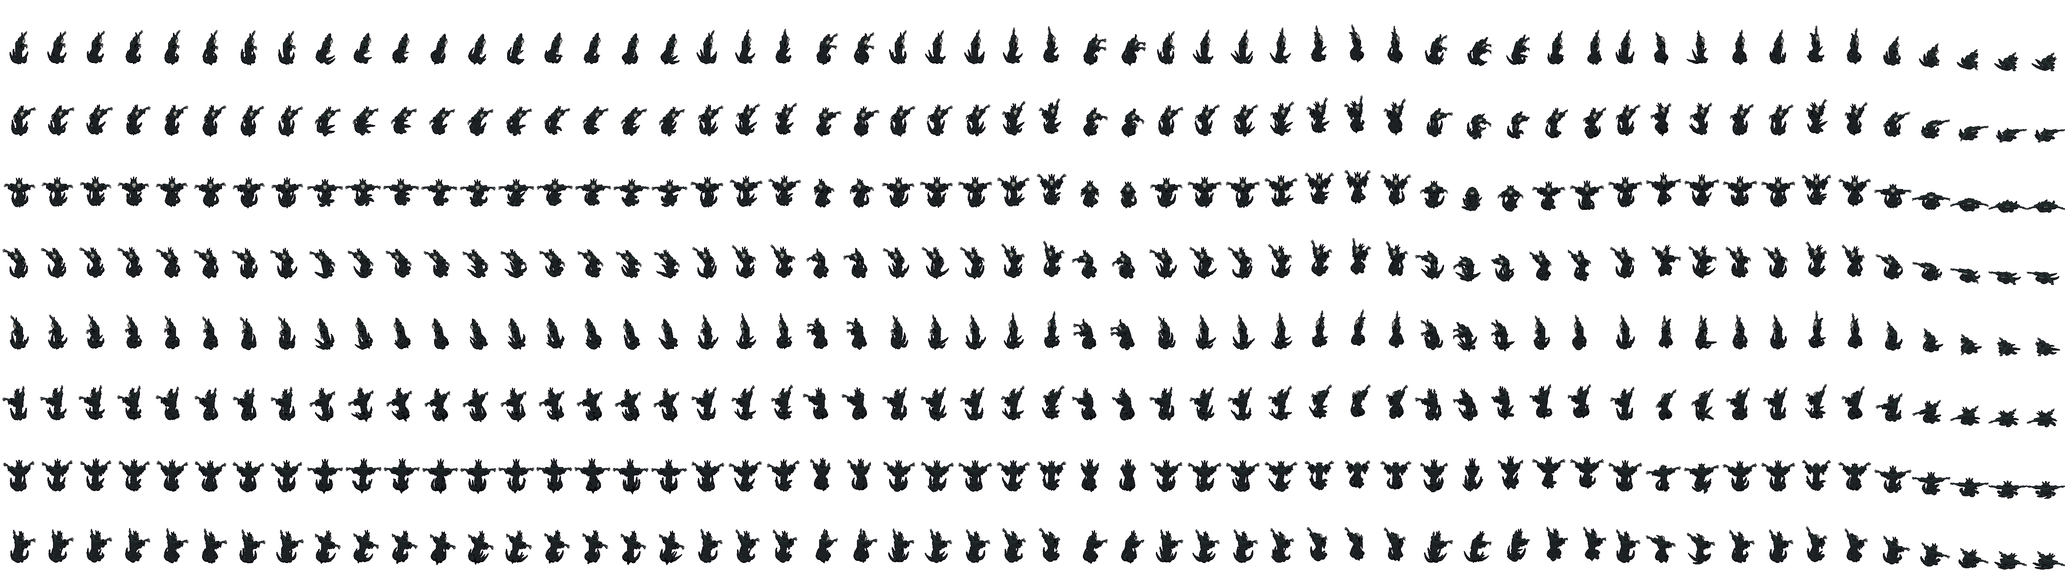
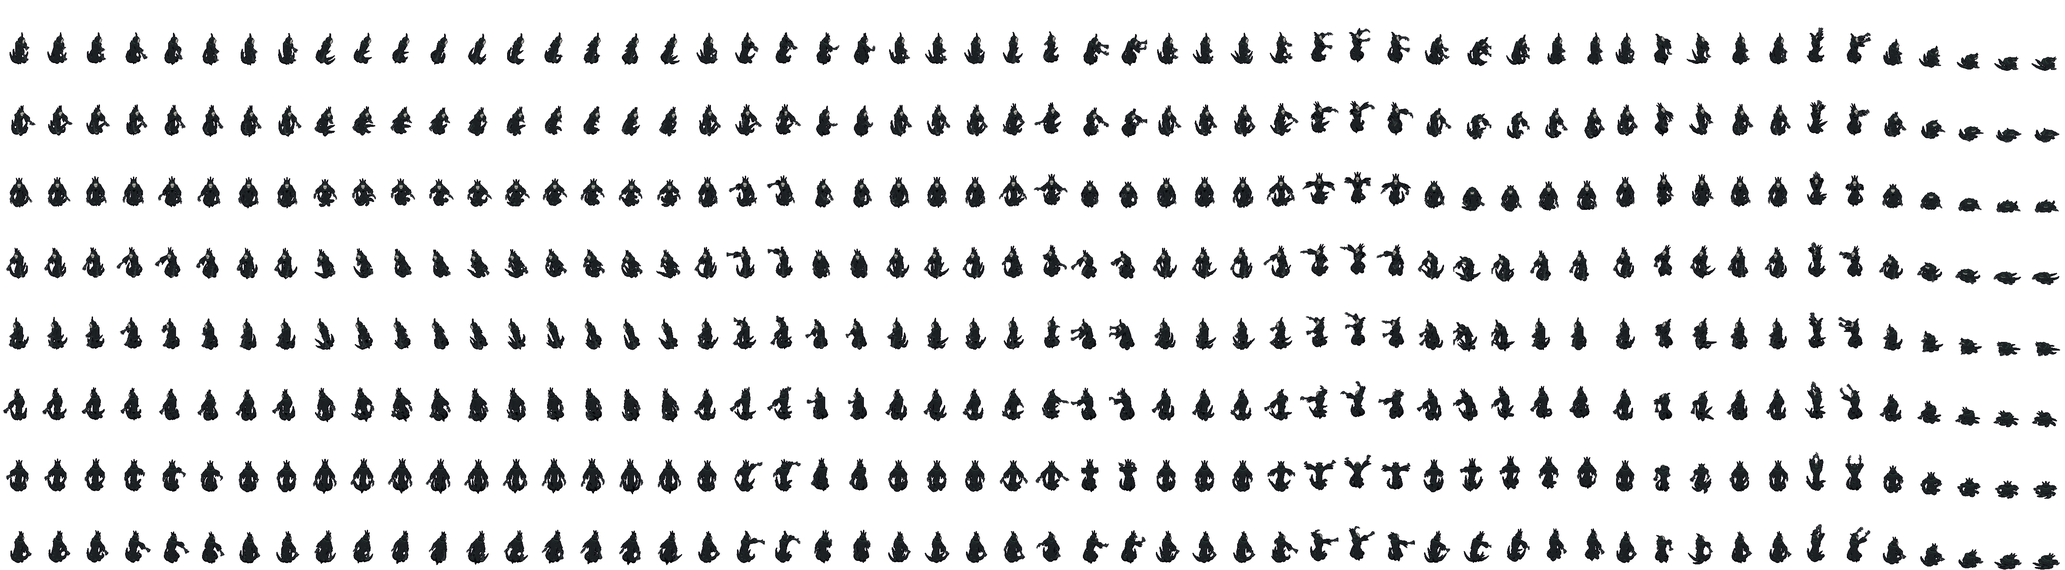
The wraith's arms, a man's: hanging at rest, joined at shoulder and elbow, clawed hands that curl; new clips
The owner: "wraith arms are always stuck out wide, they should move, and be more like human arm
movements" (proposal approved: "Yes go ahead, build the wraith arms").

- The rest pose: arms hanging from slack shoulders a little out from the body (from the game's
  camera arms at the sides vanish against the robe), elbows bent, long gaunt forearms bringing big
  clawed hands forward to the hips. The reference's spread is now the peak of the Heavy (and the
  Cast's lift), not the bind pose every clip nudged a few degrees.
- Joints: the sleeve's top blended into the chest and the forearm's root into the sleeve (skinned
  weights), so a raised arm stays joined; a claw bone at each hand's knuckles curls and splays the
  fingers; the sleeve a bell shoulder to elbow, its mouth dark, its hem in rags.
- Clips with overlap (shoulder, then elbow, then claws; the two arms never mirrored): Idle
  breathing, a hand rising and curling; Walk trailing; Attack a rake cocked over the head and down
  across the body; Attack2 a two-handed lunge and grab; Heavy the spread and the dive; Hit arms in,
  elbows up; Death a reach, then slack; Cast hands lifted out at the sides, trembling.
- Round A2: forearms longer, hands bigger (the reference's); the Cast's hands crossed before its
  face, now out at the sides.
- creatures-sheet.cjs --clips A,B [--frames N]: a row through those clips, N moments each.
[…]

diff --git a/tools/actor-lab/creatures.js b/tools/actor-lab/creatures.js
@@ -598,8 +598,18 @@ function wraith(o = {}) {
   const skullC = (p, n) => (n.y < -0.3 ? skullLo : skull);
   R.bone('root', null, V(0, 0.85, 0)); R.bone('spine', R.by.get('root'), V(0, 1.0, 0.0)); R.bone('chest', R.by.get('spine'), V(0, 1.2, 0.03));
   R.bone('neck', R.by.get('chest'), V(0, 1.32, 0.07)); R.bone('head', R.by.get('neck'), V(0, 1.4, 0.1)); R.bone('jaw', R.by.get('head'), V(0, 1.375, 0.15));
-  for (const s of [1, -1]) {   // (flung wide and a little up, as the reference's: the bind pose is the pose)
-    const u = R.bone(`armU${s}`, R.by.get('chest'), V(0.18 * s, 1.27, 0.04)), l = R.bone(`armL${s}`, u, V(0.42 * s, 1.35, 0.1)); R.bone(`hand${s}`, l, V(0.62 * s, 1.47, 0.15));
+  // (the owner, 2026-11-10: "wraith arms are always stuck out wide, they should move, and be more like human arm movements".
+  // The bind pose was the reference's spread, every clip a few degrees off it. Now a man's arms at rest: hanging from slack
+  // shoulders a little out from the body (from the game's camera arms at the sides vanish against the robe), the elbows
+  // bent, gaunt forearms bringing the claws forward to the hips, reaching; the reference's spread is the peak of its
+  // Heavy and its Cast. Each hand has a `claw` bone at the knuckles, so the fingers curl and splay.)
+  const ARM = {};
+  for (const s of [1, -1]) {
+    const Sh = V(0.2 * s, 1.27, 0.04), El = V(0.3 * s, 0.99, 0.12), Wr = V(0.35 * s, 0.7, 0.29);   // (round A2: longer, gaunt, the reference's)
+    const up = El.clone().sub(Sh).normalize(), fore = Wr.clone().sub(El).normalize(), hinge = up.clone().cross(fore).normalize();   // (the elbow's hinge)
+    const palm = V(-s, 0, 0.25).normalize(), spread = palm.clone().cross(fore).normalize(), Kn = Wr.clone().add(fore.clone().multiplyScalar(0.07));
+    const u = R.bone(`armU${s}`, R.by.get('chest'), Sh), l = R.bone(`armL${s}`, u, El), h = R.bone(`hand${s}`, l, Wr); R.bone(`claw${s}`, h, Kn);
+    ARM[s] = { Sh, El, Wr, Kn, up, fore, hinge, palm, spread };
   }
   // the column: the shroud below the waist twisting down to a point (three bones), and six tendrils curling up off it
   const colP = [V(0, 0.95, 0.0), V(0.03, 0.66, -0.02), V(-0.03, 0.4, 0.0), V(0.01, 0.15, 0.03)], colR = [0.13, 0.15, 0.11, 0.06];   // (a waist, then the shroud's fall)
@@ -649,35 +659,101 @@ function wraith(o = {}) {
   for (let i = -3; i <= 3; i++) R.part(limb(V(i * 0.012, 1.374, 0.238 - Math.abs(i) * 0.005), V(i * 0.012, 1.352, 0.24 - Math.abs(i) * 0.005), 0.006, 0.002, 3), 'head', claw);
   R.part(blob(V(0, 1.33, 0.205), [0.058, 0.024, 0.045], [8, 5]), 'jaw', skullC);
   for (let i = -2; i <= 2; i++) R.part(limb(V(i * 0.013, 1.34, 0.243 - Math.abs(i) * 0.005), V(i * 0.013, 1.36, 0.244 - Math.abs(i) * 0.005), 0.006, 0.002, 3), 'jaw', claw);
-  // the arms: the sleeve's drape hanging under each, gaunt forearms, hands with long splayed clawed fingers
+  // the arms: a bell sleeve from the shoulder to the elbow, its mouth dark inside and its hem in rags; gaunt forearms; big
+  // hands with long clawed fingers. The sleeve's top is shared with the chest and the forearm's root with the sleeve, so a
+  // raised arm stays joined at the shoulder and bends at the elbow (round A1: rigid pieces broke apart when they moved)
   for (const s of [1, -1]) {
-    { const d = V(0.26 * s, 0.08, 0.06).normalize();   // (a bell sleeve: round W3, a pipe; its mouth dark inside, round S4: shaded smooth its end read as a capped pipe)
-      R.part(limb(V(0.17 * s, 1.27, 0.04), V(0.43 * s, 1.35, 0.1), 0.07, 0.11, 7), `armU${s}`, (p, n) => (n.dot(d) > 0.7 ? voidC : robeC(p, n))); }
-    // the sleeve: a wide drape hanging under the arm to the elbow and past it, its edge in rags (round W1: a scarecrow's sleeve)
-    for (let k = 0; k < 6; k++) { const x = (0.2 + k * 0.05) * s, y = 1.27 + k * 0.016, len = 0.3 + 0.12 * hash3(k, s, 4, 2) - k * 0.015; R.part(limb(V(x, y, 0.06 + k * 0.01), V(x * 1.04, y - len, 0.03 + k * 0.012), 0.055, 0.004, 3), `armU${s}`, robeC); }
-    for (let k = 0; k < 3; k++) { const x = (0.45 + k * 0.05) * s, y = 1.36 + k * 0.025; R.part(limb(V(x, y, 0.1 + k * 0.01), V(x * 1.02, y - 0.16 - 0.05 * k, 0.09 + k * 0.012), 0.04, 0.003, 3), `armL${s}`, robeC); }
-    R.part(limb(V(0.42 * s, 1.35, 0.1), V(0.62 * s, 1.47, 0.15), 0.032, 0.024, 6), `armL${s}`, flesh);
-    R.part(blob(V(0.66 * s, 1.49, 0.16), [0.048, 0.032, 0.05], [6, 5]), `hand${s}`, flesh);
-    for (let f = 0; f < 5; f++) {
-      const a = (f - 2) * 0.32, d = V(Math.cos(a) * s, Math.sin(a) * 0.9 + 0.25, 0.25 + 0.15 * (f === 0 ? -1 : 0)).normalize();
-      const b = V(0.67 * s, 1.49, 0.16).add(d.clone().multiplyScalar(0.04)), m = b.clone().add(d.clone().multiplyScalar(0.085)), e = m.clone().add(d.clone().multiplyScalar(0.075)).add(V(0, -0.03, 0.015));
-      R.part(limb(b, m, 0.013, 0.01, 4), `hand${s}`, flesh); R.part(limb(m, e, 0.01, 0.001, 3), `hand${s}`, claw);
+    const A = ARM[s], U = `armU${s}`, Lb = `armL${s}`, H = `hand${s}`, Cl = `claw${s}`;
+    const shoulderW = R.skin((p) => { const k = Math.max(0, Math.min(1, p.distanceTo(A.Sh) / 0.1)); return k >= 1 ? [[U, 1]] : [[U, 0.45 + 0.55 * k], ['chest', 0.55 - 0.55 * k]]; });
+    const elbowW = R.skin((p) => { const k = Math.max(0, Math.min(1, p.distanceTo(A.El) / 0.06)); return k >= 1 ? [[Lb, 1]] : [[Lb, 0.5 + 0.5 * k], [U, 0.5 - 0.5 * k]]; });
+    R.part(blob(A.Sh.clone().add(V(0, 0.01, 0)), [0.075, 0.065, 0.075]), shoulderW, robeC);               // (the shoulder, rounded under the drape)
+    R.part(limb(A.Sh, A.El.clone().add(A.up.clone().multiplyScalar(0.03)), 0.065, 0.12, 9), shoulderW, (p, n) => (n.dot(A.up) > 0.7 ? voidC : robeC(p, n)));
+    for (let k = 0; k < 7; k++) {   // (the hem: rags hanging from the sleeve's mouth, longest at the back and under)
+      const a = (k / 7) * TAU + 0.4, r = 0.105, m = A.El.clone().add(A.up.clone().multiplyScalar(0.03)), side = V(s, 0, 0), fw = V(0, 0, 1);
+      const at = m.clone().add(side.clone().multiplyScalar(Math.cos(a) * r)).add(fw.clone().multiplyScalar(Math.sin(a) * r * 0.9));
+      const len = 0.1 + 0.09 * hash3(k, s, 6, 3) + (Math.sin(a) < 0 ? 0.06 : 0);
+      R.part(limb(at, at.clone().add(V(0.01 * s * Math.cos(a), -len, -0.02)), 0.032, 0.003, 3), U, robeC);
     }
+    R.part(limb(A.El.clone().add(A.up.clone().multiplyScalar(-0.02)), A.Wr, 0.034, 0.025, 7), elbowW, flesh);   // the forearm, gaunt
+    R.part(blob(A.El, [0.032, 0.03, 0.032], [6, 5]), elbowW, flesh);                                                // (the elbow's knob)
+    R.part(blob(A.Wr.clone().add(A.fore.clone().multiplyScalar(0.035)), [0.05, 0.055, 0.04], [7, 5]), H, flesh);   // the palm (round A2: the reference's big hands)
+    for (let f = 0; f < 4; f++) {   // (long, a little splayed, curled in toward the palm at their tips)
+      const ang = (f - 1.5) * 0.24, d = A.fore.clone().multiplyScalar(Math.cos(ang)).add(A.spread.clone().multiplyScalar(Math.sin(ang))).normalize();
+      const b = A.Kn.clone().add(A.spread.clone().multiplyScalar((f - 1.5) * 0.022)), len = 0.1 - Math.abs(f - 1.5) * 0.01;
+      const m = b.clone().add(d.clone().multiplyScalar(len)), d2 = d.clone().add(A.palm.clone().multiplyScalar(0.45)).normalize(), e = m.clone().add(d2.clone().multiplyScalar(len * 0.8));
+      const d3 = d2.clone().add(A.palm.clone().multiplyScalar(0.5)).normalize();
+      R.part(limb(b, m, 0.015, 0.012, 5), Cl, flesh); R.part(blob(m, [0.013, 0.013, 0.013], [5, 4]), Cl, flesh);
+      R.part(limb(m, e, 0.012, 0.009, 5), Cl, flesh); R.part(limb(e, e.clone().add(d3.multiplyScalar(0.065)), 0.009, 0.001, 4), Cl, claw);
+    }
+    { const b = A.Wr.clone().add(A.fore.clone().multiplyScalar(0.025)).add(A.palm.clone().multiplyScalar(0.025)).add(A.spread.clone().multiplyScalar(-0.03)), d = A.fore.clone().multiplyScalar(0.5).add(A.palm.clone().multiplyScalar(0.55)).add(A.spread.clone().multiplyScalar(-0.45)).normalize(), e = b.clone().add(d.clone().multiplyScalar(0.07));
+      R.part(limb(b, e, 0.012, 0.009, 5), H, flesh); R.part(limb(e, e.clone().add(d.add(A.palm.clone().multiplyScalar(0.4)).normalize().multiplyScalar(0.04)), 0.008, 0.001, 4), H, claw); }   // the thumb
   }
   const root3 = R.mesh(o.glow || '#5ff0a0', 1.3);
   const writhe = (t, a = 1, trail = 0) => ({
     ...Object.fromEntries([0, 1, 2].map((i) => [`shroud${i}`, qe(trail * (0.12 + 0.08 * i) + 0.05 * a * S(t - i * 0.2), 0.15 * a * S(t * 0.5 - i * 0.25), 0.05 * a * C(t - i * 0.2))])),
     ...Object.fromEntries(tend.flatMap((n, i) => n.map((b, k) => [b, qe(trail * 0.3 + 0.16 * a * S(t + i / T + k * 0.15), 0.1 * a * C(t * 0.5 + i / T), 0.14 * a * S(t * 1.3 + i / T - k * 0.2))]))) });
-  const armQ = (s, fwd, down, twist = 0) => qe(twist, -s * fwd, -s * down);   // (forward toward the face, down toward the floor)
+  // an arm's pose, as a man's: `fwd` raises it forward (up over the head at about 2.6), `out` swings it out to the side
+  // (the reference's spread at about 1.6; under 0 across the body), `bend` flexes the elbow (under 0 straightens it),
+  // `curl` closes the claws (under 0 splays them), `wrist` cocks the hand; `twist` turns the arm in its socket
+  const X = V(1, 0, 0), Z = V(0, 0, 1);
+  const arm = (s, { fwd = 0, out = 0, bend = 0, curl = 0, wrist = 0, twist = 0 } = {}) => {
+    const A = ARM[s];
+    return { [`armU${s}`]: qa(UP, -twist * s).multiply(qa(Z, out * s)).multiply(qa(X, -fwd)), [`armL${s}`]: qa(A.hinge, -bend), [`hand${s}`]: qa(A.hinge, -wrist), [`claw${s}`]: qa(A.spread, curl * s) };
+  };
+  const arms = (l, r) => ({ ...arm(1, l), ...arm(-1, r) });   // (its left, its right: the right is −x, facing +z)
+  const lag = (f, t, d) => f(t - d);                          // (overlap: the elbow a beat after the shoulder, the claws after that)
   const clips = [
-    clip(R, 'Idle', 3.0, (t) => ({ q: { ...writhe(t), armU1: armQ(1, 0.15 + 0.08 * S(t), 0.1 * S(t + 0.2)), 'armU-1': armQ(-1, 0.15 + 0.08 * S(t + 0.4), 0.1 * S(t + 0.6)), armL1: armQ(1, 0.15, 0.05 * S(t)), 'armL-1': armQ(-1, 0.15, 0.05 * S(t + 0.3)), head: qe(0.08 * S(t + 0.2), 0.15 * S(t * 0.5), 0.05 * S(t)), jaw: qe(0.3 + 0.12 * Math.max(0, S(t * 2)), 0, 0), spine: qe(0.06 + 0.03 * S(t), 0, 0) }, p: { root: V(0, 0.04 * S(t), 0) } })),
-    clip(R, 'Walk', 1.2, (t) => ({ q: { ...writhe(t * 2, 1.3, 0.45), root: qe(0.2, 0, 0.05 * S(t)), armU1: armQ(1, -0.25, 0.35 + 0.08 * S(t)), 'armU-1': armQ(-1, -0.25, 0.35 + 0.08 * S(t + 0.5)), armL1: armQ(1, 0.2, 0.1), 'armL-1': armQ(-1, 0.2, 0.1), jaw: qe(0.3, 0, 0) }, p: { root: V(0, 0.03 * S(t * 2), 0) } })),
-    clip(R, 'Attack', 0.7, (t) => { const w = bell(0, 0.3, 0.45, t), k = bell(0.38, 0.52, 0.9, t); return { q: { ...writhe(t, 1.5, 0.2 * k), chest: qe(0.15 * k, 0.4 * w - 0.5 * k, 0), 'armU-1': armQ(-1, -0.6 * w + 1.4 * k, -0.3 * w + 0.3 * k), 'armL-1': armQ(-1, 0.6 * k, 0.2 * k), armU1: armQ(1, 0.2, 0), jaw: qe(0.3 + 0.4 * k, 0, 0), head: qe(0.15 * k, -0.25 * k, 0) }, p: { root: V(0, 0.04 * w, 0.12 * k) } }; }),
-    clip(R, 'Attack2', 0.75, (t) => { const w = bell(0, 0.35, 0.5, t), k = bell(0.42, 0.56, 0.92, t); return { q: { ...writhe(t, 1.5, 0.3 * k), armU1: armQ(1, -0.4 * w + 1.3 * k, -0.4 * w + 0.4 * k), 'armU-1': armQ(-1, -0.4 * w + 1.3 * k, -0.4 * w + 0.4 * k), armL1: armQ(1, 0.5 * k, 0), 'armL-1': armQ(-1, 0.5 * k, 0), spine: qe(-0.2 * w + 0.4 * k, 0, 0), jaw: qe(0.3 + 0.5 * w, 0, 0) }, p: { root: V(0, 0.08 * w - 0.04 * k, 0.1 * k) } }; }),
-    clip(R, 'Heavy', 1.1, (t) => { const r = bell(0, 0.35, 0.55, t), d = bell(0.5, 0.62, 0.95, t); return { q: { ...writhe(t * 1.5, 2, 0.6 * d), armU1: armQ(1, -0.5 * r + 1.2 * d, -0.6 * r + 0.3 * d), 'armU-1': armQ(-1, -0.5 * r + 1.2 * d, -0.6 * r + 0.3 * d), spine: qe(-0.35 * r + 0.5 * d, 0, 0), head: qe(-0.5 * r + 0.3 * d, 0, 0), jaw: qe(0.3 + 0.6 * r, 0, 0) }, p: { root: V(0, 0.18 * r - 0.08 * d, 0.38 * ease(0.5, 0.8, t)) } }; }),   // (it rises, spreads wider and shrieks, then dives)
-    clip(R, 'Hit', 0.45, (t) => { const k = bell(0, 0.2, 1, t); return { q: { ...writhe(t * 2, 1 + 2 * k, -0.3 * k), armU1: armQ(1, -0.3 * k, 0.2 * k), 'armU-1': armQ(-1, -0.3 * k, 0.2 * k), spine: qe(-0.3 * k, 0.2 * k, 0), head: qe(-0.35 * k, -0.2 * k, 0), jaw: qe(0.3 + 0.3 * k, 0, 0) }, p: { root: V(0, 0.03 * k, -0.08 * k) } }; }),
-    clip(R, 'Death', 1.6, (t) => { const r = bell(0, 0.18, 0.4, t), k = ease(0.2, 0.9, t), f = 1 - 0.72 * k; return { q: { ...writhe(t * 2, 2 * r + 0.3, -0.5 * k), spine: qe(0.15 * k - 0.3 * r, 0, 0), head: qe(-0.5 * r + 0.5 * k, 0, 0), jaw: qe(0.3 + 0.6 * r, 0, 0), armU1: armQ(1, 0.2 * k, -0.4 * r + 0.9 * k), 'armU-1': armQ(-1, 0.2 * k, -0.4 * r + 0.9 * k) }, p: { root: V(0, 0.1 * r - 0.74 * k, 0) }, s: { root: V(1 + 0.3 * k, f, 1 + 0.3 * k) } }; }),   // (a last shriek, then the shroud empties and settles, a heap of rags)
-    clip(R, 'Cast', 1.0, (t) => { const k = bell(0.05, 0.4, 0.9, t); return { q: { ...writhe(t * 1.5, 1.5, -0.2 * k), armU1: armQ(1, 0.3 * k, -0.7 * k), 'armU-1': armQ(-1, 0.3 * k, -0.7 * k), spine: qe(-0.25 * k, 0, 0), head: qe(-0.45 * k, 0, 0), jaw: qe(0.3 + 0.5 * k, 0, 0) }, p: { root: V(0, 0.1 * k, 0) } }; }),   // (arms raised, head back, jaw wide: the drain)
+    // breathing in the shoulders; its right hand slowly rising to the chest, the claws curling, the left a beat behind it
+    clip(R, 'Idle', 3.0, (t) => {
+      const rise = (u) => bell(0.25, 0.48, 0.78, ((u % 1) + 1) % 1), b = 0.06 * S(t);
+      return { q: { ...writhe(t), ...arms(
+        { fwd: 0.06 + b + 0.35 * lag(rise, t, 0.5), out: 0.05, bend: 0.1 + 0.45 * lag(rise, t, 0.56), curl: 0.15 + 0.5 * lag(rise, t, 0.62) },
+        { fwd: 0.06 + b + 0.75 * rise(t), out: 0.05 + 0.1 * rise(t), bend: 0.1 + 1.0 * lag(rise, t, 0.05), curl: 0.15 + 0.85 * lag(rise, t, 0.12) - 0.4 * lag(rise, t, 0.35) * 0, wrist: 0.25 * lag(rise, t, 0.08) }),
+        head: qe(0.08 * S(t + 0.2), 0.15 * S(t * 0.5), 0.05 * S(t)), jaw: qe(0.3 + 0.12 * Math.max(0, S(t * 2)), 0, 0), spine: qe(0.06 + 0.03 * S(t), 0, 0) }, p: { root: V(0, 0.04 * S(t), 0) } };
+    }),
+    // drifting: the arms trailing back with it, swinging a little against each other, the forearms lagging
+    clip(R, 'Walk', 1.2, (t) => ({ q: { ...writhe(t * 2, 1.3, 0.45), root: qe(0.2, 0, 0.05 * S(t)), ...arms(
+      { fwd: -0.4 + 0.18 * S(t), out: 0.12, bend: 0.3 + 0.12 * S(t - 0.1), curl: 0.3 + 0.1 * S(t - 0.2) },
+      { fwd: -0.4 + 0.18 * S(t + 0.5), out: 0.12, bend: 0.3 + 0.12 * S(t + 0.4), curl: 0.3 + 0.1 * S(t + 0.3) }), jaw: qe(0.3, 0, 0) }, p: { root: V(0, 0.03 * S(t * 2), 0) } })),
+    // a rake with the right claw: the arm cocked up behind the head, the body wound back; then raked down across it, the
+    // elbow snapping straight, the claws closing after it and the follow-through past the left hip
+    clip(R, 'Attack', 0.7, (t) => {
+      const w = bell(0, 0.3, 0.45, t), k = bell(0.38, 0.52, 0.9, t), we = bell(0, 0.33, 0.48, t), ke = bell(0.4, 0.55, 0.9, t), c = bell(0.46, 0.6, 0.95, t);
+      return { q: { ...writhe(t, 1.5, 0.2 * k), chest: qe(0.15 * k, -0.45 * w + 0.5 * k, 0), ...arms(
+        { fwd: 0.1 + 0.3 * w - 0.25 * k, out: 0.2 * w, bend: 0.25 + 0.4 * we, curl: 0.2 },
+        { fwd: 0.05 + 2.5 * w + 0.6 * k, out: 0.45 * w - 0.55 * k, bend: 0.1 + 1.3 * we - 0.45 * ke, curl: -0.45 * w + 1.1 * c, wrist: 0.5 * we - 0.5 * ke }),
+        jaw: qe(0.3 + 0.4 * k, 0, 0), head: qe(0.15 * k, 0.25 * k, 0) }, p: { root: V(0, 0.04 * w, 0.12 * k) } };
+    }),
+    // a two-handed lunge: both arms drawn back, then thrown forward at head height, the claws open, and shut on it
+    clip(R, 'Attack2', 0.75, (t) => {
+      const w = bell(0, 0.35, 0.5, t), k = bell(0.42, 0.56, 0.92, t), ke = bell(0.46, 0.6, 0.92, t), g = bell(0.52, 0.64, 0.96, t);
+      const one = (o) => ({ fwd: -0.45 * w + 1.55 * k, out: 0.3 * w - 0.2 * k + o, bend: 0.2 + 0.8 * w - 0.55 * ke, curl: 0.2 - 0.6 * w - 0.2 * k + 1.3 * g });
+      return { q: { ...writhe(t, 1.5, 0.3 * k), ...arms(one(0), one(0.04)), spine: qe(-0.2 * w + 0.4 * k, 0, 0), jaw: qe(0.3 + 0.5 * w, 0, 0) }, p: { root: V(0, 0.08 * w - 0.04 * k, 0.1 * k) } };
+    }),
+    // it rises and flings its arms wide and up (the reference's spread), shrieking; then dives, both sweeping forward and down
+    clip(R, 'Heavy', 1.1, (t) => {
+      const r = bell(0, 0.35, 0.55, t), d = bell(0.5, 0.62, 0.95, t), re = bell(0, 0.4, 0.6, t);
+      const one = (o) => ({ fwd: 0.45 * r + 1.3 * d, out: 1.65 * r + o - 0.1 * d, bend: 0.2 - 0.55 * re + 0.15 * d, curl: 0.2 - 0.8 * re + 1.0 * d, wrist: -0.3 * re });
+      return { q: { ...writhe(t * 1.5, 2, 0.6 * d), ...arms(one(0), one(0.06)), spine: qe(-0.35 * r + 0.5 * d, 0, 0), head: qe(-0.5 * r + 0.3 * d, 0, 0), jaw: qe(0.3 + 0.6 * r, 0, 0) }, p: { root: V(0, 0.18 * r - 0.08 * d, 0.38 * ease(0.5, 0.8, t)) } };
+    }),
+    // struck: the arms snap in to the chest, elbows up, the head thrown back
+    clip(R, 'Hit', 0.45, (t) => {
+      const k = bell(0, 0.2, 1, t), ke = bell(0, 0.26, 1, t);
+      const one = { fwd: 0.85 * k, out: -0.45 * k, bend: 0.1 + 1.5 * ke, curl: 0.2 + 0.8 * ke };
+      return { q: { ...writhe(t * 2, 1 + 2 * k, -0.3 * k), ...arms(one, one), spine: qe(-0.3 * k, 0.2 * k, 0), head: qe(-0.35 * k, -0.2 * k, 0), jaw: qe(0.3 + 0.3 * k, 0, 0) }, p: { root: V(0, 0.03 * k, -0.08 * k) } };
+    }),
+    // a last reach upward, a shriek; then the arms go slack and fold in as the shroud empties into a heap
+    clip(R, 'Death', 1.6, (t) => {
+      const r = bell(0, 0.18, 0.42, t), k = ease(0.2, 0.9, t), f = 1 - 0.72 * k;
+      const one = (o) => ({ fwd: 2.3 * r + 0.35 * k, out: 0.4 * r - 0.3 * k + o, bend: 0.1 - 0.35 * r + 0.6 * k, curl: -0.5 * r + 0.9 * k });
+      return { q: { ...writhe(t * 2, 2 * r + 0.3, -0.5 * k), ...arms(one(0), one(0.1)), spine: qe(0.15 * k - 0.3 * r, 0, 0), head: qe(-0.5 * r + 0.5 * k, 0, 0), jaw: qe(0.3 + 0.6 * r, 0, 0) }, p: { root: V(0, 0.1 * r - 0.74 * k, 0) }, s: { root: V(1 + 0.3 * k, f, 1 + 0.3 * k) } };
+    }),
+    // the drain: arms lifted wide and forward, palms to its prey, the fingers splayed and trembling, the head back
+    clip(R, 'Cast', 1.0, (t) => {
+      const k = bell(0.05, 0.4, 0.9, t), ke = bell(0.1, 0.45, 0.92, t), tr = 0.06 * S(t * 11) * k;
+      const one = (o) => ({ fwd: 0.85 * k + tr, out: 1.3 * k + o, bend: 0.15 - 0.4 * ke, curl: 0.15 - 0.75 * ke + tr * 2, wrist: -0.45 * ke });   // (round A2: narrower, the hands crossed before its face)
+      return { q: { ...writhe(t * 1.5, 1.5, -0.2 * k), ...arms(one(0), one(0.05)), spine: qe(-0.25 * k, 0, 0), head: qe(-0.45 * k, 0, 0), jaw: qe(0.3 + 0.5 * k, 0, 0) }, p: { root: V(0, 0.1 * k, 0) } };
+    }),
   ];
   return { root: root3, clips };
 }

diff --git a/docs/creatures-proposal.md b/docs/creatures-proposal.md
@@ -25,7 +25,7 @@ fire beetle, the goblin, the graveyard wraith (1.5×), the stone golem (2×), th
   |---|---|---|---|
   | Red fire beetle | the hexapod (tripod gait) | 5,880 · 28 | a lacquered crimson dome going black at the tips, fire-glands over the eyes and at the tail; the cases fly wide on a glowing belly to spit; dies flipped, legs kicking |
   | Goblin | the small biped | 10,884 · 18 | after the owner's reference (below): a big bald head a third of its height, bat ears ringed in brass, a scowl, red eyes sunk deep, a wide grin of teeth; a red scarf on a leather mantle, a belt of pouches, a red loincloth, leather wraps; big clawed hands, no weapon |
-  | Graveyard wraith | the floating shroud | 7,800 · 33 | 1.5 men; after the owner's reference (below): a skull under a hood crowned with three horns, arms flung wide in bell sleeves, clawed hands, a shroud twisting down to a point and six tendrils curling up off it like flames; dies into a heap of rags |
+  | Graveyard wraith | the floating shroud | 9,844 · 35 | 1.5 men; after the owner's reference (below): a skull under a hood crowned with three horns, long gaunt arms in bell sleeves (a man's, moving as one's: below), clawed hands, a shroud twisting down to a point and six tendrils curling up off it like flames; dies into a heap of rags |
   | Stone golem | the heavy biped | 10,672 · 16 | 2 men; chiselled blocks of blue-grey stone, a carved chest disc, a horned block head, manacles and trailing chains, lichen veins and tufts (after the owner's reference, below); falls apart when it dies |
   | The Rat King | the rat, crowned | 13,114 · 22 | a crown of bent nails, a ruff, a purple cape over the back, long incisors, and the knot: six rats grown together by their tails, riding the tail's last bones |
   | The Spider Queen | the spider, a brood-mother | 6,716 · 31 | an egg-sac abdomen ringed in bone with a bone hourglass, green eggs glowing under its skin, a crown of spines, long raised forelegs, sickle fangs |
@@ -161,6 +161,37 @@ with both claws, and Cast a cackle with both claws up.
 | S2 (in the game) | The goblin lime and its head small from the camera. The beetle an orange blob. The golem pale with neon veins. The Queen's hourglass a white blotch. The Rat King's cape a purple shell. The rats' crest quills | The goblin's green darker, its head a tenth bigger. The beetle a deeper crimson. The golem's stone and lichen darker. The hourglass narrower. The cape flatter and darker. The rats' fur blades pressed flat to the body and laid lower |
 | S3 (in the game) | The goblin's ears small beside the reference's | A quarter bigger, the rings with them |
 | S4 (sheet) | Shaded smooth, the wraith's tendrils stacked logs and its bell sleeves capped pipes. The rat's face a teddy bear's | The tendrils one swept tube each (`tube()`); the sleeves' mouths dark inside; the rat's brow two ridges, a scowl |
+
+### The wraith's arms, a man's (2026-11-10)
+
+The owner: *"wraith arms are always stuck out wide, they should move, and be more like human arm movements"*. The bind
+pose was the reference's spread, and every clip was a few degrees off it.
+
+- **At rest, a man's arms:** they hang from slack shoulders a little out from the body, so from the game's camera they
+  don't vanish against the robe. The elbows are bent, and long gaunt forearms bring big clawed hands forward to the
+  hips. Your reference's spread is now the peak of the Heavy, and of the Cast's lift.
+- **Joints:** the sleeve's top is shared with the chest and the forearm's root with the sleeve, so a raised arm stays
+  joined. A `claw` bone at each hand's knuckles curls the fingers and splays them. The sleeve is a bell from shoulder to
+  elbow, its mouth dark, its hem in rags.
+- **Clips:** the shoulder leads, the elbow follows a beat later and the claws last, and the two arms are never mirrored.
+
+  | Clip | Motion |
+  |---|---|
+  | Idle | breathing in the shoulders; the right hand rises and curls, the left a beat behind |
+  | Walk | the arms trailing back, swinging a little against each other |
+  | Attack | a rake: cocked over the head, then down across the body, the elbow snapping straight, the claws shutting after |
+  | Attack2 | a two-handed lunge and grab |
+  | Heavy | the spread and the shriek, then the dive |
+  | Hit | the arms snapping in, elbows up |
+  | Death | a last reach upward, then slack |
+  | Cast | both clawed hands lifted out at the sides, trembling |
+
+- **Round A2** (`creatures-sheet.cjs --only wraithf,wraith --clips … --frames 6`, new for reading a motion): the arms
+  were short and the hands small, so the forearms are longer and the hands bigger. The Cast crossed the hands before its
+  face, so it now lifts them out to the sides.
+- **Cost:** 9,844 triangles, 35 bones, still two draws.
+
+![The wraith's arms now (top: the rake cocked, the spread, the cast, at rest, the rake from the side) and before (bottom: stuck out wide)](img/creatures/wraith-arms.jpg)
 
 ### The Proving Pens: a trial dungeon to fight them in (GDD v1.60)
 

diff --git a/AGENTS.md b/AGENTS.md
@@ -53,7 +53,7 @@ cd tools/actor-lab && npm i && sh fetch-assets.sh    # once, for bakes
 node tools/actor-lab/bake.cjs [actor…]    # actor atlases (+ weapon anchors, + <actor>.face.png portraits and .fig.png character-window figures); --anchors (+ walk stride) / --portraits refresh only those
 BAKE_OUT=dir BAKE_PROTO=features|eyes1|eyes2,grade[,stats]|off BAKE_HEAD=0.74 BAKE_PX=72 node tools/actor-lab/bake.cjs [actor…]   # face knobs and prototype bakes into a scratch tree (docs/face-fidelity-proposal.md, art-critic-pass-7.md); the shipped faces are eyes2,grade
 node tools/actor-lab/models.mjs           # the people as models for the Luminati renderer (docs/dungeon-kit-proposal.md §9.6): the KayKit models in tools/actor-lab/models/ pruned to the clips bake.json plays, the skeletons' weapons, cast.json (every actor's variant, height and clips; the faces) → assets/models/ (committed; never edit, rerun with the bake; test/models.test.mjs checks it's current)
-node tools/actor-lab/creatures-sheet.cjs [out.jpg] [--only rat,beetle,golem,…]   # the creatures built in code (tools/actor-lab/creatures.js: the vermin and the bestiary, the Rat King and the Spider Queen; docs/creatures-proposal.md), each at its height in the game beside the knight and through its clips from the game's camera, with its triangles, draws and bones → tools/actor-lab/out/creatures.jpg
+node tools/actor-lab/creatures-sheet.cjs [out.jpg] [--only rat,beetle,golem,…] [--clips Attack,Heavy [--frames N]]   # the creatures built in code (tools/actor-lab/creatures.js: the vermin and the bestiary, the Rat King and the Spider Queen; docs/creatures-proposal.md), each at its height in the game beside the knight and through its clips from the game's camera, with its triangles, draws and bones (--clips: through those clips, N moments each) → tools/actor-lab/out/creatures.jpg
 node tools/actor-lab/faces.cjs            # the face board: every faces.json preset and every face part → tools/actor-lab/out/faces_board.png
 node tools/actor-lab/icons.cjs [ids]      # item icons
 node tools/actor-lab/bake-env.cjs [--keep-missing]   # buildings / trees / rocks (the undergrowth needs the nature pack's glTF in tools/actor-lab/models/nature/: actor-lab README); --keep-missing: without it, bake the rest and carry the undergrowth over as baked
